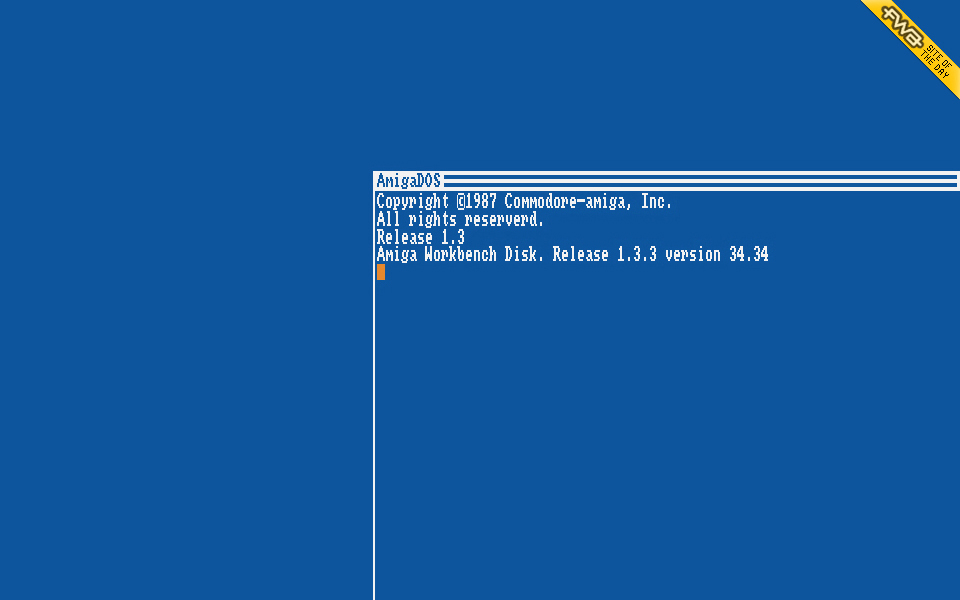
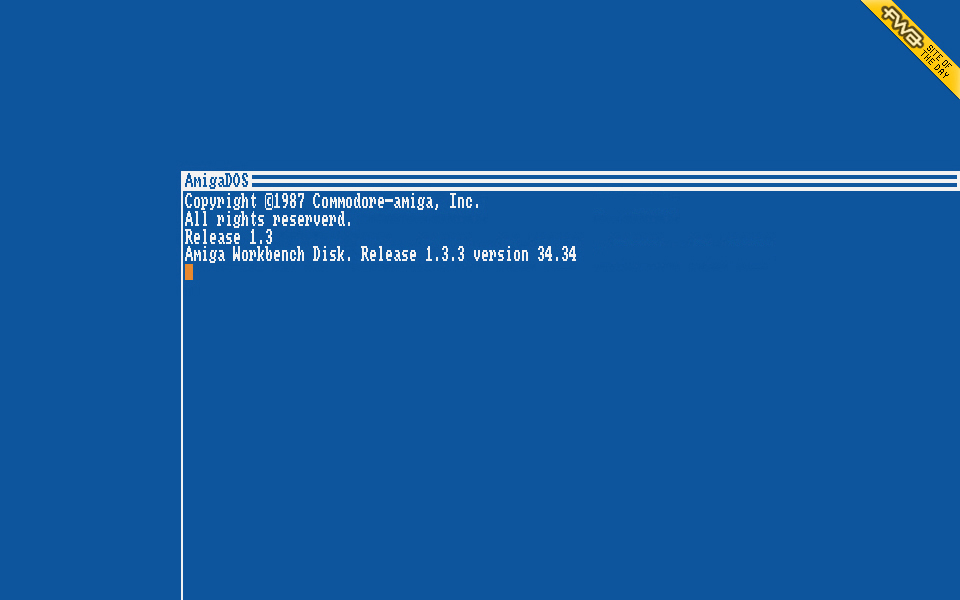
Updated some work images. Also made all external links on the work page open on a new page.

Changed region(s): [[0.1875, 0.27, 0.8125, 0.48]]

diff --git a/index.php b/index.php
@@ -37,7 +37,7 @@
 					
 					</div>
 					
-					<a class="button" href="http://www.therestartpage.com">View site</a>
+					<a class="button" href="http://www.therestartpage.com" target="_blank">View site</a>
 
 					<img class="work-item-artwork" 
 						alt="The Restart Page" 
@@ -77,7 +77,7 @@
 					
 					</div>
 					
-					<a class="button" href="http://www.carson-mcdowell.com">View site</a>
+					<a class="button" href="http://www.carson-mcdowell.com" target="_blank">View site</a>
 
 					<img class="work-item-artwork" 
 						alt="Carson McDowell" 
@@ -115,7 +115,7 @@
 						
 					</div>
 					
-					<a class="button" href="http://baxterpr.co.uk">View site</a>
+					<a class="button" href="http://baxterpr.co.uk" target="_blank">View site</a>
 
 					<img class="work-item-artwork" 
 						alt="Baxter" 
@@ -152,7 +152,7 @@
 						</aside>
 					</div>
 					
-					<a class="button" href="http://www.killerdevelopments.com">View site</a>
+					<a class="button" href="http://www.killerdevelopments.com" target="_blank">View site</a>
 
 					<img class="work-item-artwork" 
 						alt="Killer" 
@@ -189,7 +189,7 @@
 						</aside>
 					</div>
 					
-					<a class="button" href="http://nettzer.com/">View site</a>
+					<a class="button" href="http://nettzer.com/" target="_blank">View site</a>
 
 					<img class="work-item-artwork" 
 						alt="Nettzer" 

diff --git a/work/index.php b/work/index.php
@@ -34,7 +34,7 @@
 
 					<p>The Restart Page is an interactive website that allows you to run through the re-boot process of a selection of legacy operating systems. One of the highlights of working on this project was the reaction it received across the web. It was mentioned by <a href="http://daringfireball.net/linked/2012/01/07/restart">John Gruber on Daring Fireball</a>, and made it to the <a href="http://cl.ly/TEsc">front page of Reddit</a>.</p>
 
-					<a class="button" href="#">View site</a>
+					<a class="button" href="#" target="_blank">View site</a>
 
 				</aside>
 
@@ -74,7 +74,7 @@
 
 					<p>Carson McDowell are a Belfast based law firm. I was the lead designer and Front-End developer on the website. My job was to design and develop responsive interface to to go along with Carson McDowell&#8217;s new branding &amp; identity.</p>
 
-					<a class="button" href="#">View site</a>
+					<a class="button" href="#" target="_blank">View site</a>
 
 				</aside>
 
